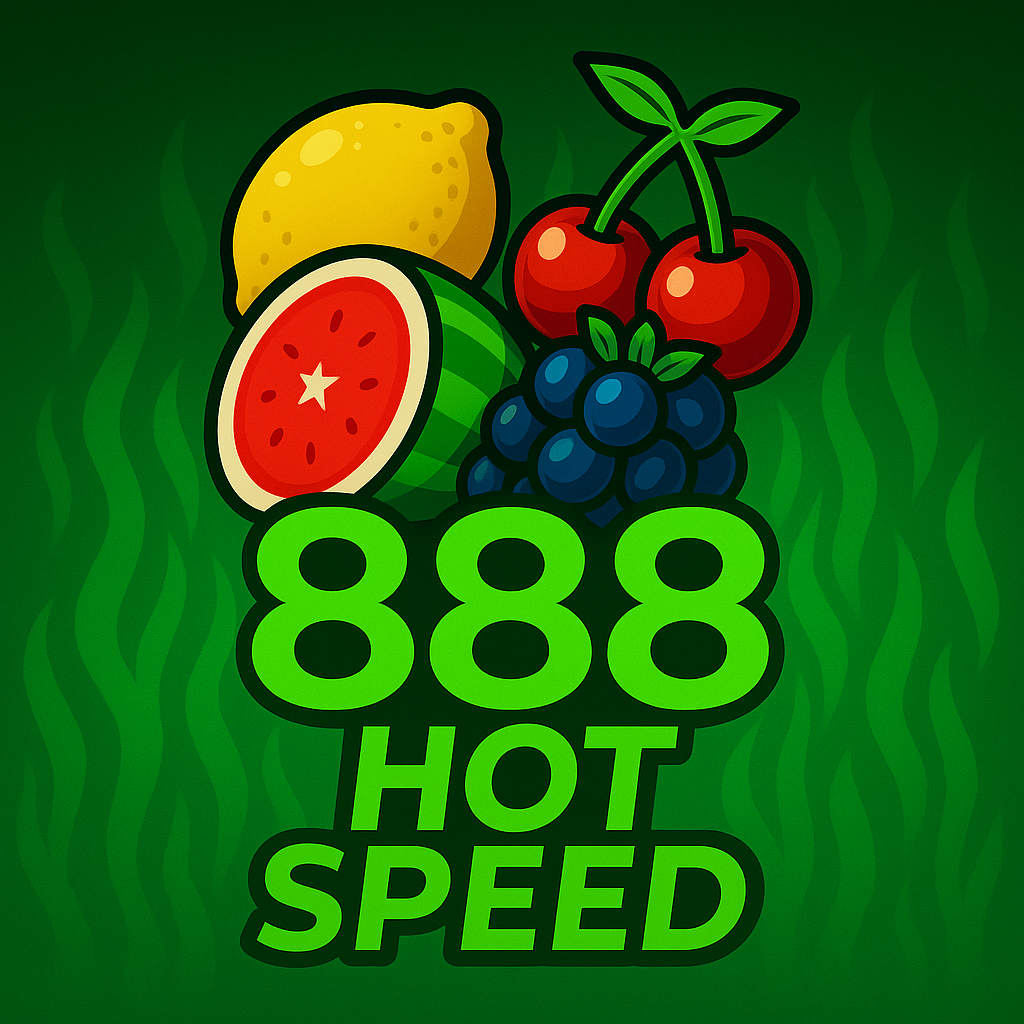
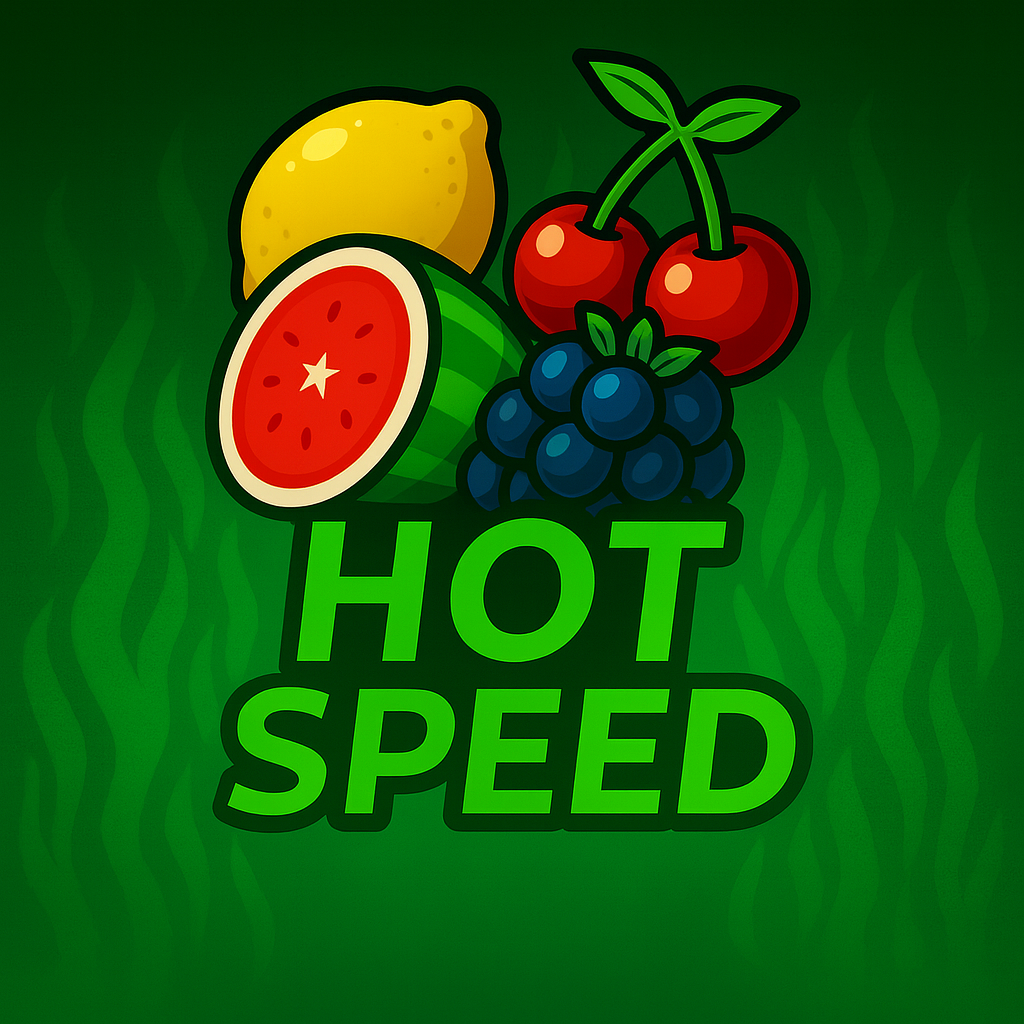
updated

Changed region(s): [[0.1875, 0.0312, 0.8125, 0.9688], [0.2812, 0.0938, 0.4688, 0.1562], [0.25, 0.1562, 0.3125, 0.1875]]

diff --git a/SpeedHotFruitDash/ScreensSpeedHotFruitDash/SpeedHotFruitDashAbout.js b/SpeedHotFruitDash/ScreensSpeedHotFruitDash/SpeedHotFruitDashAbout.js
@@ -27,7 +27,7 @@ every second matters. Choose the fresh fruit, avoid the spoiled
 ones, and challenge your memory by counting how many fruits appear
 on screen. Sharpen your focus, test your speed, and enjoy the fiery
 energy of classic arcade gameplay.`
-            : `888 Hot Speed: Fruit Dash is a fast-paced reflex and attention game where
+            : `Hot Speed: Fruit Dash is a fast-paced reflex and attention game where
 every second matters. Choose the fresh fruit, avoid the spoiled
 ones, and challenge your memory by counting how many fruits appear
 on screen. Sharpen your focus, test your speed, and enjoy the fiery
@@ -97,8 +97,8 @@ energy of classic arcade gameplay.`,
             </Text>
           ) : (
             <Text style={styles.fruitdashtitle}>
-              888 Hot Speed: Fruit Dash is a fast-paced reflex and attention
-              game where every second matters. Choose the fresh fruit, avoid the
+              Hot Speed: Fruit Dash is a fast-paced reflex and attention game
+              where every second matters. Choose the fresh fruit, avoid the
               spoiled ones, and challenge your memory by counting how many
               fruits appear on screen. Sharpen your focus, test your speed, and
               enjoy the fiery energy of classic arcade gameplay.
